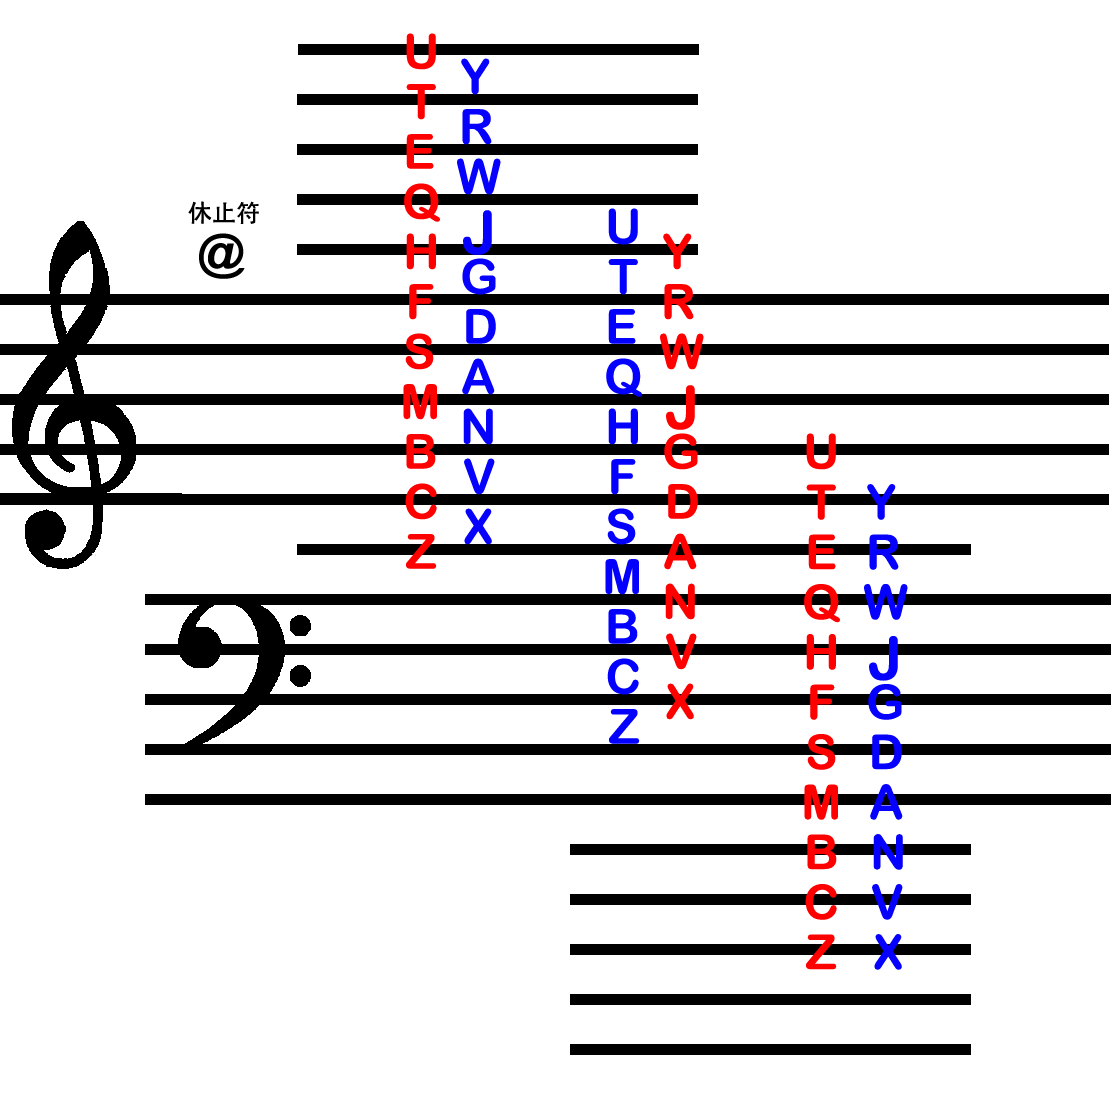
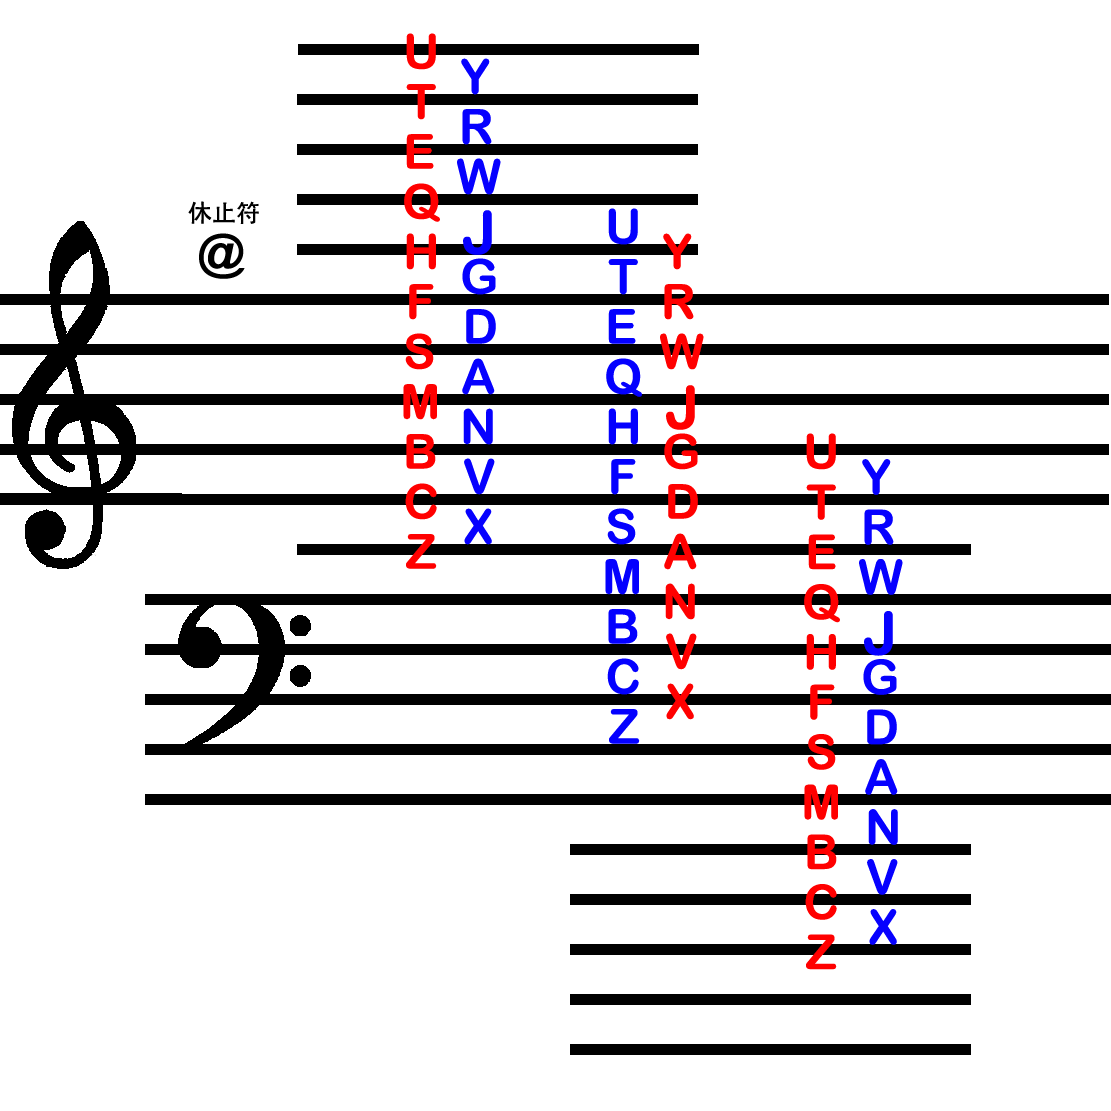
JS脚本：原琴·五线谱版【更新】 (#500)
* 添加了制谱器

* 修正两个误改点位

* 更新版号

* 添加制谱器【跟新描述】

* 添加制谱器

* Delete repo/js/AutoYuanQin/assets/1.小星星.json

* Delete repo/js/AutoYuanQin/assets/2.小星星变奏曲.json

* Delete repo/js/AutoYuanQin/assets/3.Unknown Mother Goose [アンノウン・マザーグース].json

* Delete repo/js/AutoYuanQin/assets/4.铃芽之旅[Suzume].json

* Delete repo/js/AutoYuanQin/assets/5.Flower Dance.json

* Delete repo/js/AutoYuanQin/assets/example.json

* 更新制谱器

* 完善制谱器

完善了制谱器，修复了制谱器的遗留问题

* 删除重复文件

* 更新制谱器版号

Changed region(s): [[0.7651, 0.3978, 0.8263, 0.8875]]

diff --git a/repo/js/AutoYuanQin/assets/tutorial_file/index.html b/repo/js/AutoYuanQin/assets/tutorial_file/index.html
@@ -2,7 +2,7 @@
 <html lang="zh-cn">
 <head>
     <meta charset="UTF-8">
-	<meta name="version" content="1.0.0">
+	<meta name="version" content="1.1">
     <title>BGI原琴制谱器</title>
     <style>
         body {
@@ -221,16 +221,16 @@
               <area shape="rect" coords="794,827,849,877" onclick="add_key('B')">
               <area shape="rect" coords="794,877,849,927" onclick="add_key('C')">
               <area shape="rect" coords="794,927,849,977" onclick="add_key('Z')">
-              <area shape="rect" coords="854,477,909,527" onclick="add_key('Y')">
-              <area shape="rect" coords="854,527,909,577" onclick="add_key('R')">
-              <area shape="rect" coords="854,577,909,627" onclick="add_key('W')">
-              <area shape="rect" coords="854,627,909,677" onclick="add_key('J')">
-              <area shape="rect" coords="854,677,909,727" onclick="add_key('G')">
-              <area shape="rect" coords="854,727,909,777" onclick="add_key('D')">
-              <area shape="rect" coords="854,777,909,827" onclick="add_key('A')">
-              <area shape="rect" coords="854,827,909,877" onclick="add_key('N')">
-              <area shape="rect" coords="854,877,909,927" onclick="add_key('V')">
-              <area shape="rect" coords="854,927,909,977" onclick="add_key('X')">
+              <area shape="rect" coords="849,453,904,503" onclick="add_key('Y')">
+              <area shape="rect" coords="849,503,904,553" onclick="add_key('R')">
+              <area shape="rect" coords="849,553,904,603" onclick="add_key('W')">
+              <area shape="rect" coords="849,603,904,653" onclick="add_key('J')">
+              <area shape="rect" coords="849,653,904,703" onclick="add_key('G')">
+              <area shape="rect" coords="849,703,904,753" onclick="add_key('D')">
+              <area shape="rect" coords="849,753,904,803" onclick="add_key('A')">
+              <area shape="rect" coords="849,803,904,853" onclick="add_key('N')">
+              <area shape="rect" coords="849,853,904,903" onclick="add_key('V')">
+              <area shape="rect" coords="849,903,904,953" onclick="add_key('X')">
             </map>
             </div>
             <div id="code-wrapper">
@@ -277,7 +277,7 @@
                     <option value="none">普通</option>
                     <option value="*">附点音符</option>
                     <option value=".">连音</option>
-					<option value="&">连音(末尾)</option>
+					<option value="$">连音(末尾)</option>
 					<option value="#">装饰音·倚音</option>
                 </select>
 				<label for="dropdown_all" class="textarea" style="display: none;" id="dropdown_all_text">连音总时值: </label>
@@ -332,6 +332,13 @@
 			
 			const fileInput = document.getElementById('file_input');
 			const readButton = document.getElementById('read_button');
+			const textArea = document.getElementById("code-area");
+
+			// 代码文本框自动滚动到底部
+			textArea.addEventListener("input", () => {
+				textArea.scrollTop = textArea.scrollHeight;
+			});
+
 			
 			/*设置连音时值下拉菜单的可见性和音符时值文本*/
 			dropdownType.addEventListener('change', function() {
@@ -371,62 +378,45 @@
 		function add_key(key) {
 			const regex_note = /(^|(?<=\])|(?<=\n))[^][^\n]*(?=\[\])/g; // 匹配空音符A[]或(AD)[]
 			const codeArea = document.getElementById('code-area');
+			const textArea = document.getElementById('code-area'); // 用于滚动
             let content = codeArea.value;
 			let matches = content.match(regex_note);
-			if (matches !== null && matches.length > 1) { // 异常操作检测
-				alert(`存在的未完成的音符大于一个，无法添加新的音符(目前存在的所有未完成音符数: ${matches.length})`);
+			if (matches !== null && matches.length > 1) { // 异常操作检测（可能用不到）
+				alert(`存在的未完成的音符数大于一个，无法添加新的音符(目前存在的所有未完成音符数: ${matches.length})`);
 				return null;
 			}
 
             if (content.endsWith("[]")) { // 添加为和弦
-				if (content[content.length - 3] === ")") {
+				if (content[content.length - 3] === ")") { // 已是和弦
 					const left_index = content.lastIndexOf("(");
 					const right_index = content.lastIndexOf(")");
 					
 					const string_mid = content.substring(left_index, right_index);
-					if (string_mid.includes(key)) {
+					if (string_mid.includes(key)) { // 重复音不添加
 						return null;
 					}
 					content = `${content.substring(0, left_index)}${string_mid}${key}${content.substring(right_index)}`;
-				} else {
+				} else { // 仍为单音
 					const ori_key_index = content.lastIndexOf("[") - 1;
-					if (content[ori_key_index] === key) {
+					if (content[ori_key_index] === key) { // 重复音不添加
 						return null;
 					}
 					content = `${content.substring(0, ori_key_index)}(${content[ori_key_index]}${key})[]`;
 				}
-//				// 取正则匹配的最后一个
-//				matches = matches[matches.length - 1];
-//				if (!matches.includes(key)) { // 和弦不能有重复的音符
-//					if (matches.endsWith(")")) {
-//						matches = `${matches.slice(0, -1)}${key})`;
-//					} else {
-//						if (matches.startsWith("\n\n")) {
-//							matches = `\n(${matches.replace(/\n/g, "")}${key})`;
-//						} else if (matches.startsWith("\n")) {
-//							matches = `\n(${matches.replace(/\n/g, "")}${key})`;
-//						} else if (content.length === 3){
-//							matches = `(${matches}${key})`;
-//						} else {
-//							`${matches.slice(0, -3)}(${matches[-1]}${key})[]`;
-//						}
-//					}
-//				} else {
-//					return null;
-//				}
-				
-//				content = content.replace(regex_note, matches);
 				codeArea.value = content;
             } else { // 添加新的音
 				content += key + "[]"; 
 				codeArea.value = content;
             }
+			// 滚动到底部
+			textArea.scrollTop = textArea.scrollHeight;
 		}
 		
 		/*点击按钮添加分节标志*/
 		function new_bar() {
 			const regex_note = /(^|(?<=\])|(?<=\n))[^][^\n]*(?=\[\])/g; // 匹配空音符A[]或(AD)[]
 			const codeArea = document.getElementById('code-area');
+			const textArea = document.getElementById('code-area'); // 用于滚动
             let content = codeArea.value;
 			if (regex_note.test(content)) {
 				alert(`存在未完成的音符！`);
@@ -437,6 +427,8 @@
 			}
 			content += "|\n";
 			codeArea.value = content;
+			// 滚动到底部
+			textArea.scrollTop = textArea.scrollHeight;
 			
 		}
 		
@@ -444,6 +436,7 @@
 		function new_line() {
 			const regex_note = /(^|(?<=\])|(?<=\n))[^][^\n]*(?=\[\])/g; // 匹配空音符A[]或(AD)[]
 			const codeArea = document.getElementById('code-area');
+			const textArea = document.getElementById('code-area'); // 用于滚动
             let content = codeArea.value;
 			if (regex_note.test(content)) {
 				alert(`存在未完成的音符！`);
@@ -454,6 +447,8 @@
 			}
 			content += "|\n\n";
 			codeArea.value = content;
+			// 滚动到底部
+			codeArea.scrollTop = textArea.scrollHeight;
 		}
 		
 		/*根据所选完善音符*/
@@ -556,7 +551,7 @@
 			reader.onload = function(event) {
 				const content = event.target.result; // 文件内容
 				const content_msg = get_music_msg(content); // 解析后的文件内容
-
+				// 将本地乐谱文件载入HTML
 				scoreName.value = content_msg["name"];
 				scoreAuthor.value = content_msg["author"];
 				scoreBpm.value = content_msg["bpm"];
@@ -592,7 +587,8 @@
 			let regex_arranger = /(?<="arranger": ")[\s\S]*?(?=")/
 			let regex_notes = /(?<="notes": ")[\s\S]*?(?=")/
 
-			let regex_blank = /[\\\\n]{2}/g
+			let regex_blank_1 = /[\\\\n]{1}/g
+			let regex_blank_2 = /[\\\\n]{2}/g
 			try {
 				// 歌曲名
 				music_msg_dic["name"] = file_text.match(regex_name)[0];
@@ -609,7 +605,7 @@
 				// 谱师
 				music_msg_dic["arranger"] = file_text.match(regex_arranger)[0];
 				// 曲谱内容(删除换行符)
-				music_msg_dic["notes"] = file_text.match(regex_notes)[0].replace(/[\\\\n]{3}/g, "\n").replace(/[\\\\n]{2}/g, "\n\n");
+				music_msg_dic["notes"] = file_text.match(regex_notes)[0].replace(regex_blank_2, "\n").replace(regex_blank_1, "");
 				
 			} catch(error) {
 				alert(`曲谱解析错误：${error}\n请检查曲谱文件格式是否正确`);
